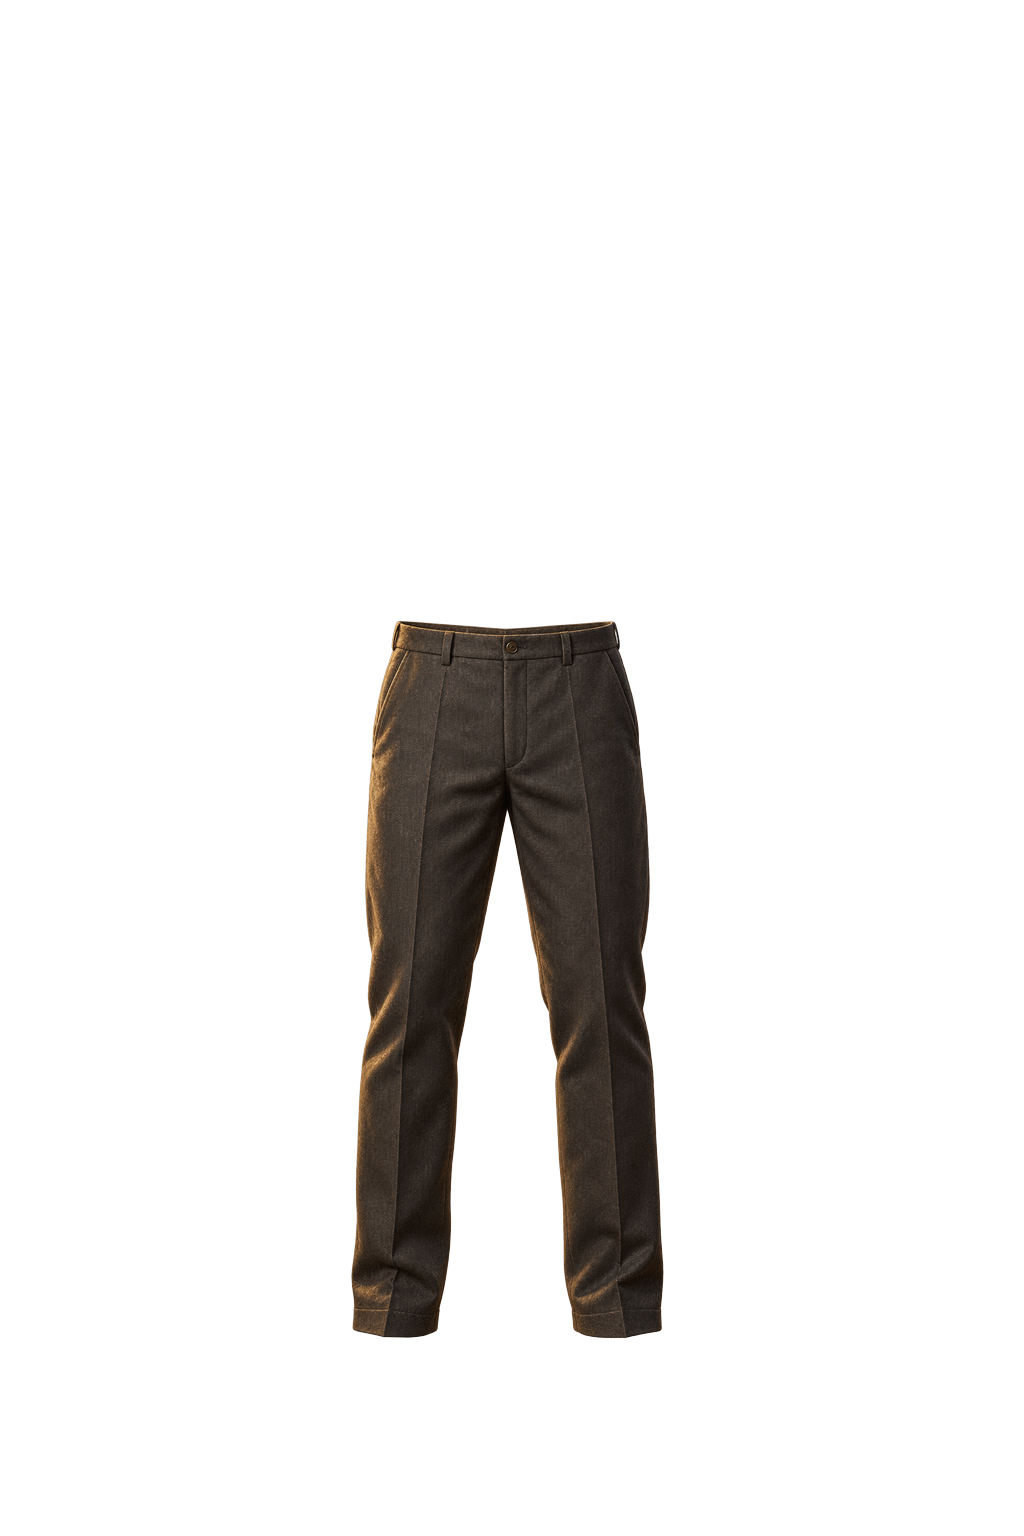
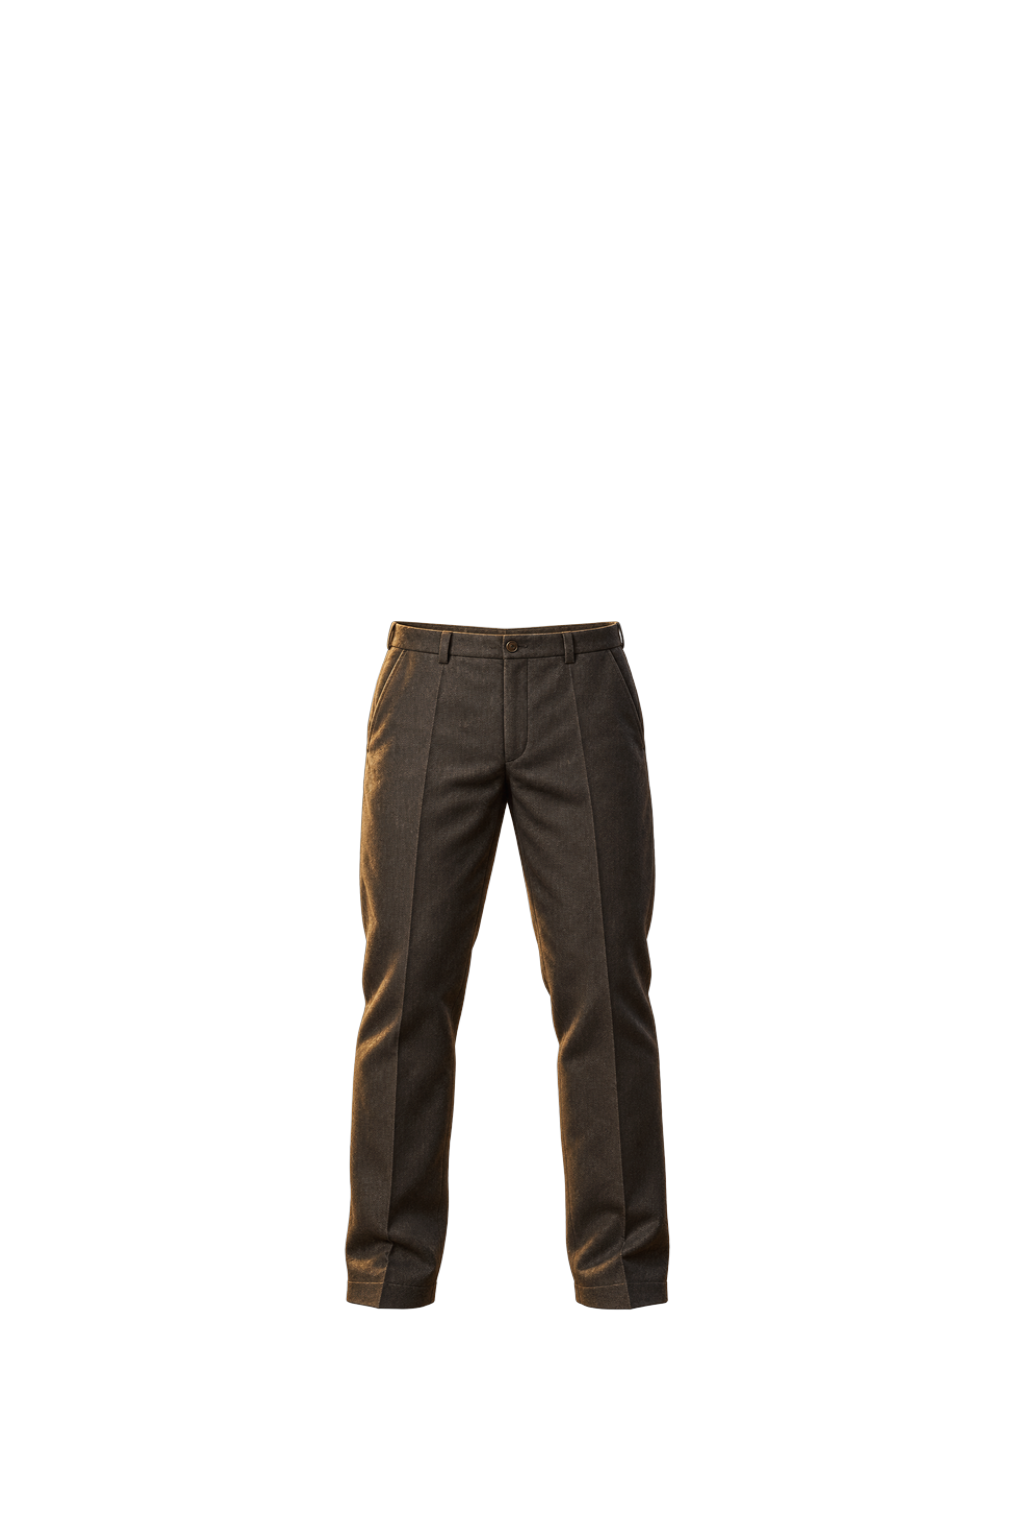
Wardrobe fit and speed; stall counter layout; the painted wireless
- tools/refit.py: tighten tops, coats, trousers and shoes onto the base body.
  Sleeves and coats narrowed to his arms, trousers slimmed and ending at the
  ankle, slippers and shoes moved onto the feet so no toes show underneath.
  Coats' cover masks get the same move.
- The wardrobe loads WebP copies of the hero pictures (15 MB of PNG -> 2.5 MB),
  made by tools/webp.py; the outfit he is wearing is fetched ahead, and opening
  the wardrobe fetches every piece in the background.
- Stall counter: the wireless at your end, today's paper and a coffee by your
  hand (tap to read), Saffron lying between you and the buyer.
- The radio screen shows the painted wireless, glowing while it plays.
- HANDOFF: the game is published to GitHub Pages; how to refresh the wardrobe art.

Claude-Session: https://claude.ai/code/session_01RsyrrUsDDaKTV5xQN8SsoM

diff --git a/src/styles.css b/src/styles.css
@@ -840,7 +840,7 @@ table.ledger .neg { color: var(--bad); }
 .split-rug { position: absolute; left: 50%; bottom: 4%; width: 34%; max-width: 300px; transform: translateX(-50%) perspective(600px) rotateX(42deg); transform-origin: 50% 100%; box-shadow: 0 10px 26px rgba(0,0,0,.6); animation: unfold2 .6s ease-out; border: 2px solid rgba(236,220,184,.45); z-index: 4; }
 .split-rug img { display: block; width: 100%; }
 @keyframes unfold2 { from { transform: translateX(-50%) perspective(600px) rotateX(85deg); opacity: 0; } }
-.cat-badge { position: absolute; left: 1%; bottom: 1%; width: min(24%, 150px); padding: 0; border: 0; background: none; cursor: pointer; }
+.cat-badge { position: absolute; left: 47%; bottom: 1%; width: min(17%, 120px); padding: 0; border: 0; background: none; cursor: pointer; }
 .cat-badge img { display: block; width: 100%; height: auto; filter: drop-shadow(0 4px 5px rgba(0,0,0,.5)); }
 .scene.split .bubble.low { z-index: 7; }
 .scene.split .seller-side img { object-position: 18% 58%; }
@@ -1763,8 +1763,8 @@ body.travelling .mission-strip{display:none}
 .evening-strip em.pos { color: #2f5a1e; }
 .evening-strip em.neg { color: #8a2a18; }
 
-/* The wireless on the counter, at the join of the two paintings */
-.stall-radio { position: absolute; left: 39%; bottom: 2%; width: min(15%, 110px); padding: 0; border: 0; background: none; cursor: pointer; }
+/* On the counter: the wireless at your end, the paper by your hand, Saffron between you and the buyer */
+.stall-radio { position: absolute; left: 0.5%; bottom: 1%; width: min(15%, 110px); padding: 0; border: 0; background: none; cursor: pointer; }
 .stall-radio img { display: block; width: 100%; height: auto; filter: drop-shadow(0 4px 5px rgba(0,0,0,.5)); }
 .stall-radio.on img { filter: drop-shadow(0 4px 5px rgba(0,0,0,.5)) drop-shadow(0 0 6px rgba(255,190,110,.55)); }
 
@@ -1785,3 +1785,12 @@ body.travelling .mission-strip{display:none}
 .pov-page h4 { font-family: var(--display); font-size: 2.9cqw; line-height: 1.18; margin: 0 0 1.6cqw; padding-bottom: 1.2cqw; border-bottom: 1px solid rgba(42,27,14,.35); }
 .paper-pov .paper-close { top: 2%; right: 3%; }
 .paper-pov .pov-read { position: absolute; left: 50%; bottom: 3%; transform: translateX(-50%); white-space: nowrap; }
+
+.stall-paper { position: absolute; left: 29%; bottom: 1%; width: min(15%, 110px); padding: 0; border: 0; background: none; cursor: pointer; }
+.stall-paper img { display: block; width: 100%; height: auto; filter: drop-shadow(0 4px 5px rgba(0,0,0,.5)); }
+
+/* The wireless: the painted set, glowing warm while it plays; the station knobs under it */
+.radio-set { width: min(300px, 80vw); }
+.radio-pic img { display: block; width: 100%; height: auto; filter: drop-shadow(0 8px 14px rgba(0,0,0,.55)); transition: filter .6s ease; }
+.radio-pic.on img { filter: drop-shadow(0 8px 14px rgba(0,0,0,.55)) drop-shadow(0 0 14px rgba(255,180,90,.45)); }
+.radio-set .radio-face { margin-top: 6px; background: none; border: 0; padding: 0; }

diff --git a/src/App.tsx b/src/App.tsx
@@ -5,6 +5,7 @@ import { eventsStarting, laneDay } from './game/economy/life';
 import { CourierTeaser, isEventNote } from './components/Newspaper/CourierTeaser';
 import { fmt } from './game/economy/money';
 import { radio } from './game/radio/player';
+import { START_WARDROBE, baseSrc, layerSrc, coverSrc, wornIds } from './data/wardrobe';
 import { preload, buyerArt, STALL_ART, CITY_ART } from './game/preload';
 import { useGame, dateFor, clock } from './game/state/store';
 import { StallIdle } from './components/StallEncounter/StallIdle';
@@ -136,6 +137,13 @@ export default function App() {
     // a sale is over: back to the lane, with the stall open
     if (phase === 'game' && tab === 'stall' && g.tutorial.done && !g.encounter && !g.dayOver) { if (!g.held) openStallNext(); setTab('map'); }
   }, [phase, g.started, g.encounter, g.dayOver, g.visitIdx, g.queue.length, g, tab, g.world.hour]); // eslint-disable-line react-hooks/exhaustive-deps
+
+  // the hero as he is dressed now, ready before the wardrobe or a mirror shows him
+  useEffect(() => {
+    if (phase !== 'game') return;
+    const o = (g.wardrobe ?? START_WARDROBE).outfit;
+    preload([baseSrc('wardrobe'), ...wornIds(o).map((id) => layerSrc('wardrobe', id)), ...(o.outer ? [coverSrc('wardrobe', o.outer)] : [])]);
+  }, [phase, g.wardrobe]);
 
   // the wireless stays at the stall: leaving Giza switches it off
   useEffect(() => { if (g.world.at !== 'giza') radio.stop(); }, [g.world.at]);

diff --git a/src/components/Radio/Radio.tsx b/src/components/Radio/Radio.tsx
@@ -44,14 +44,8 @@ export function Radio({ onClose }: { onClose: () => void }) {
     <div className="radio-wrap" role="dialog" aria-label="Radio Giza" data-testid="radio" onClick={() => { stop(); onClose(); }}>
       <div className="radio-sheet" onClick={(e) => e.stopPropagation()}>
         <div className="radio-set">
-          <div className="radio-arch">
-            <div className="radio-grille"><span className={on ? 'glow on' : 'glow'} /></div>
-          </div>
+          <div className={`radio-pic ${on ? 'on' : ''}`}><img src="art/radio-stall.webp" alt="The wireless set" draggable={false} /></div>
           <div className="radio-face">
-            <div className="radio-dial" aria-hidden>
-              <div className="needle" style={{ left: lang === 'en' ? '28%' : '72%' }} />
-              <span>EN</span><span>ع</span>
-            </div>
             <div className="radio-knobs">
               <button className={`knob ${lang === 'en' ? 'sel' : ''}`} onClick={() => tune('en')} data-testid="radio-en">Radio Giza<small>English</small></button>
               <button className="knob power" onClick={() => (on ? stop() : start(lang))} data-testid="radio-power">{on ? '■' : '▶'}</button>

diff --git a/src/components/StallEncounter/Scene.tsx b/src/components/StallEncounter/Scene.tsx
@@ -158,6 +158,7 @@ export function Scene({ enc, presented, view, onSkip, onCat, upgrades = [] }: Sc
         </div>
       )}
       <StallRadio />
+      <StallPaper />
       <Saffron onCat={onCat} />
       <Atmosphere />
       {text && (
@@ -320,7 +321,16 @@ function Saffron({ onCat }: { onCat: () => void }) {
   );
 }
 
-/** The wireless on the counter. Tap it and the morning bulletin plays quietly while you trade; tap again to switch it off. */
+/** This morning's paper folded on the counter, with a coffee. Tap it to pick it up and read. */
+function StallPaper() {
+  return (
+    <button className="stall-paper" aria-label="Read today's paper" data-testid="stall-paper" onClick={(e) => { e.stopPropagation(); window.dispatchEvent(new Event('tof:paper')); }}>
+      <img src="art/newspaper-stall.webp" alt="" />
+    </button>
+  );
+}
+
+/** The wireless on the counter at your end. Tap it and the morning bulletin plays quietly while you trade; tap again to switch it off. */
 function StallRadio() {
   const g = useGame();
   const [on, setOn] = useState(radio.playing);

diff --git a/src/components/Wardrobe/Wardrobe.tsx b/src/components/Wardrobe/Wardrobe.tsx
@@ -11,6 +11,7 @@ import {
 import { FIT } from '../../data/wardrobeFit';
 import { basePrompt, piecePrompt } from '../../data/wardrobePrompts';
 import { HeroFigure } from './HeroFigure';
+import { preload } from '../../game/preload';
 import './Wardrobe.css';
 
 const placeName = (id: string) => SETTLEMENTS.find((s) => s.id === id)?.name ?? id;
@@ -58,6 +59,8 @@ export function Wardrobe({ onClose, startSlot }: { onClose: () => void; startSlo
 
   // zooming always starts on his head; drag to look elsewhere
   useEffect(() => { setPan({ x: 0, y: 0 }); }, [zoom, pose]);
+  // every piece he might try on, fetched in the background so each appears the moment it is picked
+  useEffect(() => { preload(Object.values(PIECES).filter((p) => p.poses.includes('wardrobe')).map((p) => layerSrc('wardrobe', p.id))); }, []);
   const clampPan = (x: number, y: number) => {
     const el = stage.current;
     if (!el) return { x, y };

diff --git a/src/data/wardrobe.ts b/src/data/wardrobe.ts
@@ -218,9 +218,10 @@ export function wardrobeFromLegacy(owned: string[], worn: string): WardrobeState
 
 // ---------- art paths and fitting ----------
 
-export const baseSrc = (pose: Pose) => `art/hero/hero-base-${pose}.png`;
-export const layerSrc = (pose: Pose, id: string) => `art/hero/${pose}/${id}.png`;
-export const coverSrc = (pose: Pose, id: string) => `art/hero/${pose}/${id}-cover.png`;
+// the game loads WebP copies of the PNG masters (tools/webp.py makes them)
+export const baseSrc = (pose: Pose) => `art/hero/hero-base-${pose}.webp`;
+export const layerSrc = (pose: Pose, id: string) => `art/hero/${pose}/${id}.webp`;
+export const coverSrc = (pose: Pose, id: string) => `art/hero/${pose}/${id}-cover.webp`;
 
 /** Nudges for layers that came back from the generator a little off. Filled in from the wardrobe's fit mode. */
 export interface Fit { x: number; y: number; s: number }

diff --git a/tools/refit.py b/tools/refit.py
@@ -1,0 +1,182 @@
+#!/usr/bin/env python3
+"""Tighten clothing layers onto the hero's base body: sleeves, trousers and shoes.
+
+  python3 tools/refit.py [<piece id> ...]        (no ids = every top, coat, trousers and shoes)
+
+tools/autofit.py lines up hats and collars. This handles the rest of the body. For each piece it
+searches for the horizontal/vertical stretch and shift that leaves the least paint outside his
+body (sleeves standing off his arms, trouser legs wider than his legs) while still covering what
+the piece covered before. Shoes are fitted one at a time so each covers its whole foot, sole on
+the floor. A coat's -cover.png mask gets the same move as the coat.
+
+Originals are kept in <scratch>/_raw (pass RAW=dir in the environment), never overwritten twice.
+"""
+import os
+import sys
+from pathlib import Path
+
+import numpy as np
+from PIL import Image
+from scipy import ndimage
+
+ROOT = Path(__file__).resolve().parent.parent
+DIR = ROOT / 'public' / 'art' / 'hero' / 'wardrobe'
+RAW = Path(os.environ.get('RAW', DIR / '_raw'))
+TOPS = ['linen-shirt', 'galabiya-work', 'galabiya-white', 'galabiya-wool', 'dress-shirt', 'kaftan',
+        'vest-embroidered', 'stambouli', 'linen-suit', 'bisht', 'frock-coat', 'burnous']
+LEGS = ['sirwal', 'linen-trousers', 'wool-trousers', 'morning-trousers']
+FEET = ['babouche', 'markub-red', 'oxfords', 'spectator', 'boots']
+Q = 4  # search at a quarter of full size
+
+base_full = np.array(Image.open(DIR.parent / 'hero-base-wardrobe.png').convert('RGBA'))
+H, W = base_full.shape[:2]
+B = base_full[..., 3] > 40
+b = B[::Q, ::Q]
+tol = ndimage.binary_dilation(b, iterations=3)
+ys, xs = np.nonzero(B)
+CX = (xs.min() + xs.max()) / 2
+# the ankles: the narrowest row of the legs in the lowest fifth, just above the feet
+SOLE = int(ys.max())
+rows = np.arange(int(H * 0.8), SOLE - int(H * 0.035))
+width = np.array([B[r].sum() for r in rows])
+ANKLE = int(rows[np.argmin(width)])
+feet = b.copy(); feet[: ANKLE // Q, :] = False
+# the front of the foot and the toes; a backless slipper rightly shows the heel
+toes = b.copy(); toes[: (SOLE - 48) // Q, :] = False
+
+
+def pts(mask):
+    y, x = np.nonzero(mask)
+    return x.astype(np.float32), y.astype(np.float32)
+
+
+def raster(x, y, shape):
+    m = np.zeros(shape, bool)
+    xi, yi = np.round(x).astype(int), np.round(y).astype(int)
+    ok = (xi >= 0) & (xi < shape[1]) & (yi >= 0) & (yi < shape[0])
+    m[yi[ok], xi[ok]] = True
+    return ndimage.binary_closing(m, iterations=1)
+
+
+def search(px, py, ax, ay, sxs, sys_, dxs, dys, must, need):
+    """Least spill outside the body, keeping `need` of the pixels in `must` covered."""
+    best = None
+    total = max(1, must.sum())
+    for sx in sxs:
+        for sy in sys_:
+            for dx in dxs:
+                for dy in dys:
+                    m = raster(ax + (px - ax) * sx + dx, ay + (py - ay) * sy + dy, b.shape)
+                    if (m & must).sum() / total < need:
+                        continue
+                    spill = (m & ~tol).sum()
+                    key = (spill, abs(sx - 1) + abs(sy - 1))
+                    if best is None or key < best[0]:
+                        best = (key, sx, sy, dx, dy)
+    return best
+
+
+def warp(img, ax, ay, sx, sy, dx, dy, box=None):
+    """Scale about (ax, ay) and shift, in full-size pixels; `box` limits it to part of the image."""
+    a = np.array(img).astype(np.float32)
+    out = np.zeros_like(a) if box is None else a.copy()
+    src = a if box is None else np.where(box[..., None], a, 0)
+    if box is not None:
+        out[box] = 0
+    # output (y, x) samples input at ((y - dy - ay) / sy + ay, (x - dx - ax) / sx + ax)
+    mat = np.diag([1 / sy, 1 / sx])
+    off = [ay - (ay + dy) / sy, ax - (ax + dx) / sx]
+    for c in range(4):
+        ch = ndimage.affine_transform(src[..., c], mat, offset=off, order=1, mode='constant', cval=0)
+        out[..., c] = np.maximum(out[..., c], ch) if box is not None else ch
+    return Image.fromarray(np.clip(out, 0, 255).astype(np.uint8))
+
+
+def save(pid, img, moves):
+    f = DIR / f'{pid}.png'
+    RAW.mkdir(parents=True, exist_ok=True)
+    if not (RAW / f.name).exists():
+        Image.open(f).save(RAW / f.name)
+    img.save(f, optimize=True)
+    cover = DIR / f'{pid}-cover.png'
+    if cover.exists() and moves:
+        if not (RAW / cover.name).exists():
+            Image.open(cover).save(RAW / cover.name)
+        c = Image.open(RAW / cover.name).convert('RGBA')
+        if c.size != (W, H):
+            c = c.resize((W, H))
+        for mv in moves:
+            c = warp(c, *mv)
+        c.save(cover, optimize=True)
+
+
+def raw(pid):
+    f = RAW / f'{pid}.png'
+    return Image.open(f if f.exists() else DIR / f'{pid}.png').convert('RGBA')
+
+
+def fit_body(pid, legs):
+    img = raw(pid)
+    p = np.array(img)[..., 3][::Q, ::Q] > 40
+    must = b & p
+    px, py = pts(p)
+    top = py.min()
+    ax, ay = CX / Q, top  # the neckline or waistband stays put
+    if legs:
+        # trousers: fill the legs from the waistband to just above the ankle, no wider than needed
+        # and on down the shins to just above the ankle, within the width of the trouser legs
+        bottom = int(py.max())
+        low = np.nonzero(p[bottom - 6: bottom + 1].any(axis=0))[0]
+        shins = np.zeros_like(b); shins[bottom:(ANKLE - 12) // Q, low.min(): low.max() + 1] = True
+        must = must | (b & shins)
+        best = search(px, py, ax, ay, np.arange(0.80, 1.07, 0.02), np.arange(0.96, 1.20, 0.02), np.arange(-4, 5, 2), [0], must, 0.97)
+    else:
+        best = search(px, py, ax, ay, np.arange(0.80, 1.05, 0.02), [1.0], np.arange(-4, 5, 2), [0], must, 0.985)
+    if not best:
+        print(f'{pid}: no fit keeps it covering him; left as is'); return
+    _, sx, sy, dx, dy = best
+    mv = (CX, ay * Q, sx, sy, dx * Q, dy * Q)
+    save(pid, warp(img, *mv), [mv])
+    print(f'{pid}: width x{sx:.2f}, length x{sy:.2f}, shift {dx * Q:+.0f}px')
+
+
+def fit_feet(pid):
+    img = raw(pid)
+    a = np.array(img)[..., 3] > 40
+    out, moves = img, []
+    for side in (0, 1):  # his right foot is on the left of the picture
+        half = np.zeros_like(a); half[:, : int(CX)] = side == 0; half[:, int(CX):] = side == 1
+        shoe = (a & half)[::Q, ::Q]
+        if not shoe.any():
+            continue
+        foot = toes & half[::Q, ::Q]
+        px, py = pts(shoe)
+        fy, fx = np.nonzero(foot)
+        ax, ay = px.mean(), py.max()  # scale about the sole
+        dx0, dy0 = fx.mean() - ax, fy.max() - ay
+        # the smallest shoe that hides every toe, its sole on the floor
+        best = None
+        for s in np.arange(0.9, 1.6, 0.03):
+            best = search(px, py, ax, ay, [s], [s], np.arange(dx0 - 10, dx0 + 11, 1), np.arange(dy0 - 3, dy0 + 9, 1), foot, 0.97)
+            if best:
+                break
+        if not best:
+            print(f'{pid}: side {side} cannot cover the foot; left as is'); continue
+        _, s, _, dx, dy = best
+        mv = (ax * Q, ay * Q, s, s, dx * Q, dy * Q, half)
+        out = warp(out, *mv)
+        moves.append(mv)
+        print(f'{pid} side {side}: size x{s:.2f}, shift {dx * Q:+.0f},{dy * Q:+.0f}px')
+    save(pid, out, [])
+
+
+if __name__ == '__main__':
+    ids = sys.argv[1:] or TOPS + LEGS + FEET
+    print(f'ankle row {ANKLE}, sole row {SOLE}')
+    for pid in ids:
+        if not (DIR / f'{pid}.png').exists() and not (RAW / f'{pid}.png').exists():
+            continue
+        if pid in FEET:
+            fit_feet(pid)
+        else:
+            fit_body(pid, pid in LEGS)

diff --git a/tools/webp.py b/tools/webp.py
@@ -1,0 +1,23 @@
+#!/usr/bin/env python3
+"""Make the WebP copies the game loads from the hero's PNG pictures (base bodies, clothes, cover masks).
+
+  python3 tools/webp.py
+
+The PNGs stay as the masters that tools/autofit.py and tools/refit.py work on; run this after
+changing any of them. WebP keeps the same look and transparency at about a quarter of the size.
+"""
+from pathlib import Path
+from PIL import Image
+
+HERO = Path(__file__).resolve().parent.parent / 'public' / 'art' / 'hero'
+before = after = 0
+for png in sorted(HERO.rglob('*.png')):
+    if '_raw' in png.parts:
+        continue
+    webp = png.with_suffix('.webp')
+    im = Image.open(png).convert('RGBA')
+    # cover masks only carry an outline: keep them exact
+    im.save(webp, 'WEBP', lossless=png.stem.endswith('-cover'), quality=90, method=6, alpha_quality=100)
+    before += png.stat().st_size
+    after += webp.stat().st_size
+print(f'{before / 1e6:.1f} MB of PNG -> {after / 1e6:.1f} MB of WebP')

diff --git a/HANDOFF.md b/HANDOFF.md
@@ -16,3 +16,12 @@ Steps for the session that has push access to shenoply/Threads-of-fortune-:
    published game, and without them dialogue and the radio fall silent. The game loads audio from
    next to the page first and only tries jsDelivr if a file is missing.
    The whole game is about 254 MB, just under the artifact's 256 MB limit; new art must be small.
+
+## Where the game lives now
+- It is published from GitHub to https://shenoply.github.io/Threads-of-fortune-/ by
+  .github/workflows/pages.yml on every push to main. The artifact is kept in step as well.
+- The wardrobe loads WebP copies of the hero PNGs (src/data/wardrobe.ts baseSrc/layerSrc/coverSrc).
+  The PNGs are the masters: after changing any, run `python3 tools/webp.py` to refresh the WebP copies.
+- tools/refit.py fits tops, coats, trousers and shoes to the base body (sleeves and legs no wider
+  than needed, trousers to the ankle, shoes covering the toes). Run it after adding or repainting
+  one of those pieces, then tools/webp.py.
